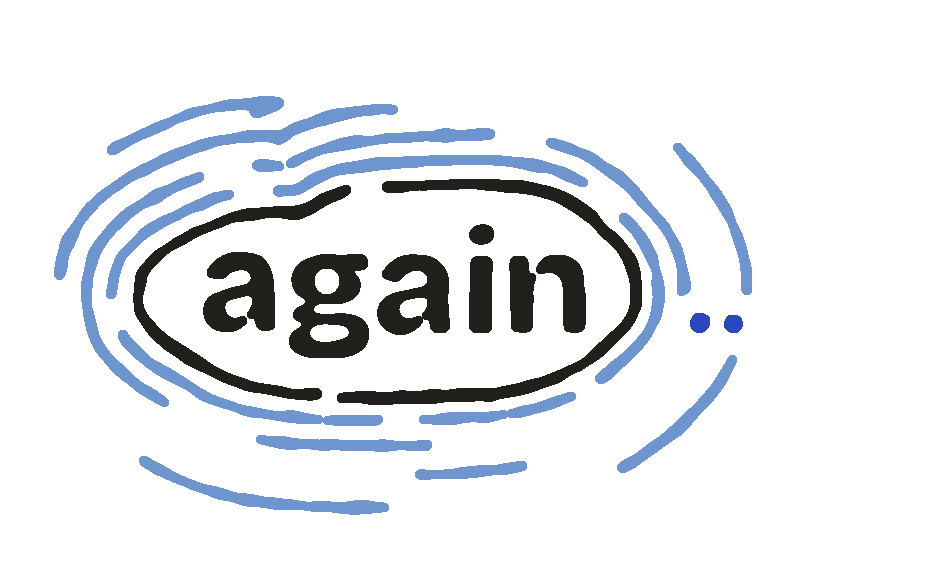
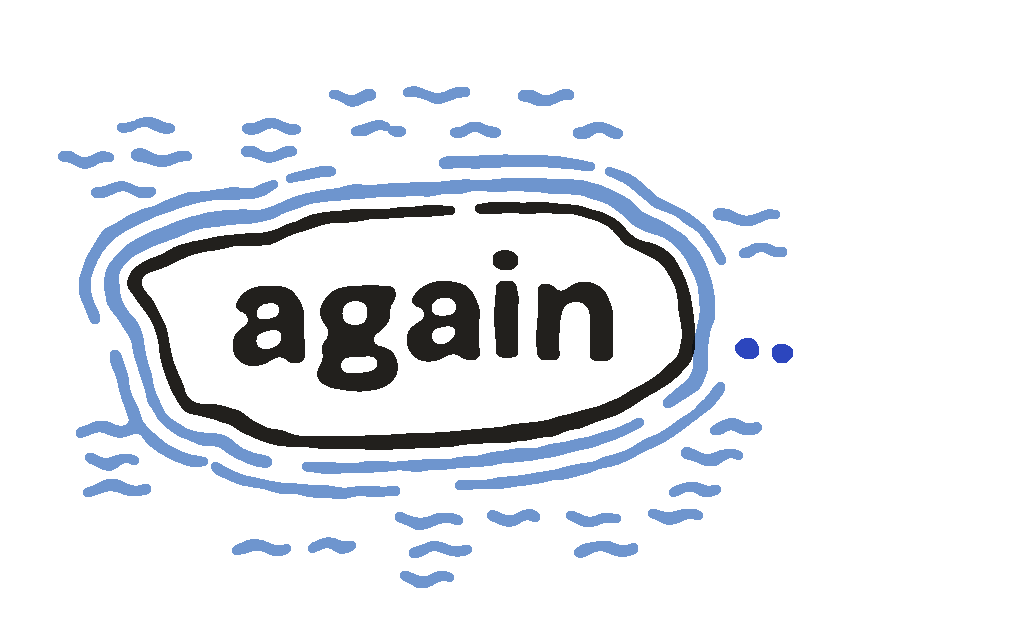
Fronts d: 02 the lake reworked after its critic (a real coast, close echoes, the open water drawn like the back's lake, the dots as islets); 01 the key's scale bar and foot finished

Changed region(s): [[0.0617, 0.1235, 0.8021, 0.9262], [0.4936, 0.1235, 0.5862, 0.1852]]

diff --git a/pipeline/art/fronts/d/02-the-lake/gen.py b/pipeline/art/fronts/d/02-the-lake/gen.py
@@ -11,9 +11,10 @@ import math, os, sys
 sys.path.insert(0, os.path.join(os.path.dirname(os.path.abspath(__file__)), '..', 'lib'))
 import front as F
 
-WMM, HMM = 100, 62
+WMM, HMM = 108, 68
 F.setup(WMM, HMM)
 import hand
+import numpy as np
 from hand import Art, offset_path, resample
 from PIL import Image, ImageDraw, ImageChops
 
@@ -21,85 +22,138 @@ art = Art(seed=402, layers=('blue', 'accent', 'key'))
 rng = art.rng
 EM = 15.5
 
-# the word, set and worked by hand, centred a little left of the canvas so the islets have water to the right
+# the word, set and worked by hand
 m, base_px = F.word_mask('again', EM, rng, wght=760)
-ww, wh = m.width / hand.R, m.height / hand.R
+ww = m.width / hand.R
 bb = m.getbbox()
 top_mm, bot_mm = bb[1] / hand.R, bb[3] / hand.R
-CX, CY = 42.0, 31.0                      # the island's centre
-x0 = CX - ww / 2
-base_mm = CY + (base_px / hand.R - (top_mm + bot_mm) / 2)
+WX, WY = 45.0, 34.0                      # the word's centre
+x0 = WX - ww / 2
+base_mm = WY + (base_px / hand.R - (top_mm + bot_mm) / 2)
 F.paste(art.L['key'], m, x0, base_mm, 'lb', base_px)
 
-# the island: a soft rounded shape hugging the word, its shore wobbling in a few slow waves, one shallow bay
-A, B = ww / 2 + 4.6, (bot_mm - top_mm) / 2 + 4.0
-harm = [(k, rng.uniform(0.5, 1.0) / k ** 0.5, rng.uniform(0, math.tau)) for k in (2, 3, 4, 6)]
+# the island: more land to the west than the word needs, a cove on the north shore, a smaller one to the south-west,
+# a broad headland east toward the islets; the whole thing turned a few degrees
+CX, CY = WX - 0.8, WY + 0.4
+A, B = ww / 2 + 7.0, (bot_mm - top_mm) / 2 + 4.4
+TILT = math.radians(-3.5)
+harm = [(k, rng.uniform(0.35, 0.7) / k ** 0.45, rng.uniform(0, math.tau)) for k in (2, 3, 5, 7)]
 
 
-def shore(t, grow=0.0):
+def g(t, c, w):
+    d = (t - c + math.pi) % math.tau - math.pi
+    return math.exp(-(d / w) ** 2)
+
+
+def shore(t):
     c, s = math.cos(t), math.sin(t)
-    n = 2.5                                   # superellipse: a little flatter than an ellipse
+    n = 3.0
     x = A * math.copysign(abs(c) ** (2 / n), c)
     y = B * math.copysign(abs(s) ** (2 / n), s)
     w = sum(a * math.sin(k * t + p) for k, a, p in harm)
-    bay = -2.2 * math.exp(-((t - 4.3) / 0.2) ** 2)   # a bay on the north shore
-    r = 1 + (w + bay) / max(A, B) * 1.6
-    return CX + x * r, CY + y * r
+    feat = (-2.0 * g(t, 4.25, 0.2)       # the north cove
+            - 1.4 * g(t, 2.35, 0.16)     # the south-west cove
+            + 1.6 * g(t, 3.5, 0.2)       # a headland to the west
+            + 1.5 * g(t, 0.3, 0.32)      # a broad headland to the east, toward the islets
+            - 0.9 * g(t, 5.7, 0.2))      # a shallow bight on the north-east
+    r = 1 + (w + feat) / max(A, B) * 1.5
+    px_, py_ = x * r, y * r
+    return CX + px_ * math.cos(TILT) - py_ * math.sin(TILT), CY + px_ * math.sin(TILT) + py_ * math.cos(TILT)
 
 
-N = 220
+N = 400
 pts = [shore(i / N * math.tau) for i in range(N)]
-pts = resample(pts + [pts[0]], 260)[:-1]
-# the shore: drawn in two pulls of the pen that don't quite meet, the way a hand draws a coast
+pts = resample(pts + [pts[0]], 320)[:-1]
+# the shore: two pulls of the pen, one heavier than the other, overlapping a little where they meet
 start = rng.randrange(len(pts))
 ring = pts[start:] + pts[:start]
-cut1 = int(len(ring) * rng.uniform(0.52, 0.6))
-art.line(ring[2:cut1:3], 1.2, layer='key', wob=0.06, trem=0.12, a0=0.8, a1=2.2)
-art.line(ring[cut1 + 3:-4:3], 1.2, layer='key', wob=0.06, trem=0.12, a0=0.8, a1=2.2)
+cut1 = int(len(ring) * rng.uniform(0.5, 0.58))
+art.line(ring[0:cut1:3], 1.45, layer='key', wob=0.05, trem=0.1, a0=0.6, a1=2.6)
+art.line(ring[cut1 - 4::3] + ring[:2], 1.15, layer='key', wob=0.05, trem=0.1, a0=1.8, a1=0.8)
 
 
 def normal_out(path):
-    # offset_path's normals follow the drawing direction; flip so they point away from the centre
     p2 = offset_path(path, 1.0)
     out = sum(math.hypot(q[0] - CX, q[1] - CY) - math.hypot(p[0] - CX, p[1] - CY) for p, q in zip(path, p2))
     return 1.0 if out > 0 else -1.0
 
 
 SGN = normal_out(pts)
+SH = np.array(pts)
 
-# the islets: the two dots, out in the water at the word's baseline
-r_dot = 0.078 * EM
-islets = [(CX + A + 6.8, base_mm - r_dot), (CX + A + 6.8 + 0.23 * EM, base_mm - r_dot + 0.15)]
+
+ISLAND = Image.new('L', (int(WMM * 4), int(HMM * 4)), 0)
+ImageDraw.Draw(ISLAND).polygon([(x * 4, y * 4) for x, y in pts], fill=255)
+ISL_A = np.asarray(ISLAND)
+
+
+def on_land(x, y):
+    xi, yi = int(x * 4), int(y * 4)
+    return 0 <= xi < ISL_A.shape[1] and 0 <= yi < ISL_A.shape[0] and ISL_A[yi, xi] > 0
+
+
+def dist_shore(x, y):
+    return float(np.sqrt(((SH[:, 0] - x) ** 2 + (SH[:, 1] - y) ** 2).min()))
+
+
+# the islets: the two dots, out past the east headland, near the word's baseline
+r_dot = 0.088 * EM
+tip = max(pts, key=lambda p: p[0] + 0.4 * p[1])
+islets = [(tip[0] + 6.4, tip[1] - 0.6), (tip[0] + 6.4 + 0.245 * EM, tip[1] - 0.2)]
 for ix, iy in islets:
     art.dot(ix, iy, r_dot * rng.uniform(0.97, 1.04), layer='accent')
+ISL_CLEAR = r_dot + 2.3
 
-# the echo lines: each further out, spacing widening, each broken into a few runs, more broken further out
-offs = [2.5, 5.2, 8.3, 11.8]
-for li, d in enumerate(offs):
-    path = offset_path(pts, SGN * d)
-    path = [(x + rng.uniform(-0.05, 0.05), y) for x, y in path]
+
+def bend(path):
+    """water parts round the islets: points near one are pushed out to a clear radius, so lines bow round them"""
+    out = []
+    for x, y in path:
+        for ix, iy in islets:
+            d = math.hypot(x - ix, y - iy)
+            if d < ISL_CLEAR + 1.6:
+                push = ISL_CLEAR + 1.6 * (d / (ISL_CLEAR + 1.6))
+                if d > 1e-6:
+                    x, y = ix + (x - ix) / d * max(d, push), iy + (y - iy) / d * max(d, push)
+        out.append((x, y))
+    return out
+
+
+# the echo lines: two close to the shore, long runs, the first nearly whole
+for li, (d, w) in enumerate(((2.5, 1.3), (5.1, 1.15))):
+    path = bend(offset_path(pts, SGN * d))
     n = len(path)
     i = rng.randrange(n)
     done = 0
-    gap_p = 0.1 + 0.25 * li
-    while done < n:
-        L = int(rng.uniform(26, 70) * (1.0 - 0.1 * li))
-        seg = [path[(i + k) % n] for k in range(min(L, n - done))]
-        if len(seg) > 6 and rng.random() > gap_p * 0.4:
-            art.line(seg[::3] + [seg[-1]], 1.1, layer='blue', wob=0.05, trem=0.06, a0=1.0, a1=1.6)
-        step = L + int(rng.uniform(4, 10) * (1 + li * 1.1))
+    while done < n - 10:
+        L = int(rng.uniform(60, 140) if li == 0 else rng.uniform(30, 80))
+        L = min(L, n - done)
+        seg = [path[(i + k) % n] for k in range(L)]
+        if len(seg) >= 20:
+            art.line(seg[::3] + [seg[-1]], w * rng.uniform(0.95, 1.1), layer='blue', wob=0.05, trem=0.07,
+                     a0=1.2, a1=2.0)
+        step = L + int(rng.uniform(5, 9) * (1 + li))
         i, done = (i + step) % n, done + step
 
-# the islets: the water lines part round them
-mx = (islets[0][0] + islets[1][0]) / 2
-my = (islets[0][1] + islets[1][1]) / 2
-half = (islets[1][0] - islets[0][0]) / 2
-clear = Image.new('L', art.L['blue'].size, 0)
-cd = ImageDraw.Draw(clear)
-rx, ry = half + r_dot + 2.4, r_dot + 2.3
-cd.ellipse(((mx - rx) * hand.R, (my - ry) * hand.R, (mx + rx) * hand.R, (my + ry) * hand.R), fill=255)
-art.L['blue'] = ImageChops.subtract(art.L['blue'], clear)
-art.D['blue'] = ImageDraw.Draw(art.L['blue'])
+# the open water: rows of short wave strokes, the way the back draws its lake, thinning out away from the island
+rows = np.arange(7.0, HMM - 6.0, 3.2)
+for ry in rows:
+    x = 6.5 + rng.uniform(0, 4.0)
+    while x < WMM - 9.0:
+        L = rng.uniform(4.4, 6.6)
+        cx, cy = x + L / 2, ry + rng.uniform(-0.35, 0.35)
+        d = dist_shore(cx, cy)
+        near_isl = min(math.hypot(cx - ix, cy - iy) for ix, iy in islets)
+        ends_wet = not on_land(x, cy) and not on_land(x + L, cy) and not on_land(cx, cy)
+        keep = (ends_wet and d > 8.2 and near_isl > ISL_CLEAR + 2.4
+                and rng.random() < max(0.0, 0.85 - (d - 8.2) / 8.0))
+        if keep:
+            n = 6
+            wl = [(x + L * t / n, cy + 0.42 * math.sin(t / n * math.tau * 1.25 + ry)) for t in range(n + 1)]
+            art.line(wl, 1.1, layer='blue', wob=0.05, trem=0.04, a0=0.9, a1=1.5)
+            x += L + rng.uniform(2.2, 3.6)
+        else:
+            x += rng.uniform(2.0, 3.5)
 
 order = ('blue', 'accent', 'key')
 inks = art.finish(order=order, shifts={'blue': (-0.2, 0.15), 'accent': (0.15, 0.2)}, trim=False)

diff --git a/pipeline/art/fronts/d/01-the-key/gen.py b/pipeline/art/fronts/d/01-the-key/gen.py
@@ -12,7 +12,7 @@ import math, os, sys
 sys.path.insert(0, os.path.join(os.path.dirname(os.path.abspath(__file__)), '..', 'lib'))
 import front as F
 
-WMM, HMM = 104, 170
+WMM, HMM = 104, 162
 F.setup(WMM, HMM)
 import hand
 from hand import Art, hatch_poly
@@ -111,9 +111,9 @@ for ry in (R1, R2):
     art.line([(X0 - 1.5, ry + 0.25), (X0 + SW * 0.5, ry), (BUF, ry - 0.1)], 1.1, layer='key', wob=0.04, trem=0.04,
              a0=3.0, a1=0.3)
 xx = X0 + 0.6
-while xx < X0 + 6.5:                     # sleepers, only where the train isn't
+while xx < X0 + 5.0:                     # sleepers, only where the train isn't
     art.line([(xx, R1 - 1.5), (xx + 0.1, R2 + 1.5)], 1.1, layer='key', wob=0.02, trem=0.0, a0=0.2, a1=0.2)
-    xx += rng.uniform(2.9, 3.3)
+    xx += rng.uniform(3.6, 4.0)
 art.line([(BUF + 0.4, y + 0.9), (BUF + 0.7, y + 9.3)], 1.8, layer='key', wob=0.02, trem=0.0, a0=0.3, a1=0.3)
 # the train from above: three solid cars nose to tail, the front one rounded, a hair short of the buffer
 tx0, tx1 = X0 + 7.2, BUF - 1.3
@@ -184,15 +184,15 @@ yb = yf + 3.2
 bx0 = X0 + 15.5
 bx1 = bx0 + 100 * F.MM_PER_M
 seg = (bx1 - bx0) / 4
-art.line([(bx0, yb - 0.75), (bx1, yb - 0.6)], 1.1, layer='key', wob=0.03, trem=0.03, a0=0.3, a1=0.3)
-art.line([(bx0, yb + 0.75), (bx1, yb + 0.85)], 1.1, layer='key', wob=0.03, trem=0.03, a0=0.3, a1=0.3)
+art.line([(bx0, yb - 1.45), (bx1, yb - 1.35)], 1.1, layer='key', wob=0.03, trem=0.03, a0=0.3, a1=0.3)
+art.line([(bx0, yb + 1.45), (bx1, yb + 1.55)], 1.1, layer='key', wob=0.03, trem=0.03, a0=0.3, a1=0.3)
 for k in (0, 2):
     xx = bx0 + seg * k
-    art.fill([(xx, yb - 1.25), (xx + seg, yb - 1.2), (xx + seg, yb + 1.35), (xx, yb + 1.3)], 'key')
+    art.fill([(xx, yb - 1.7), (xx + seg, yb - 1.65), (xx + seg, yb + 1.8), (xx, yb + 1.75)], 'key')
 for k in range(5):
     xx = bx0 + seg * k
-    hgt = 2.6 if k in (0, 4) else 1.7
-    art.line([(xx, yb - hgt), (xx + 0.1, yb + 1.3)], 1.1, layer='key', wob=0.02, trem=0.0, a0=0.3, a1=0.3)
+    hgt = 3.4 if k in (0, 4) else 1.7
+    art.line([(xx, yb - hgt), (xx + 0.1, yb + 1.7)], 1.1, layer='key', wob=0.02, trem=0.0, a0=0.3, a1=0.3)
 
 order = ('green', 'accent', 'key')
 inks = art.finish(order=order, shifts={'green': (0.3, -0.25), 'accent': (0.15, 0.25)}, trim=False)

diff --git a/pipeline/art/fronts/d/02-the-lake/notes.md b/pipeline/art/fronts/d/02-the-lake/notes.md
@@ -6,6 +6,6 @@
 
 **With the back.** The back's line, lake blue and sound blue; the broken rings rhyme with its sound.
 
-**Process.** Three draft rounds and one critic pass. **The rework is not done yet** (the usage limit cut it off). The critic's fixes still to make: a lumpier, tilted coast with a cove, a headland and a spit running out to the dots; water lines varied in weight and drifting into short horizontal strokes further out; the water lines bending round the islets so the dots read as islands, not stray punctuation; no strokes under ~6 mm.
+**Process.** Three draft rounds, one critic pass, then the rework over four more rounds: the shore made a coast (tilted, a cove on the north shore and another to the south-west, headlands west and east; a spit was tried and cut because it turned the island into a speech bubble, then a fish); two close echo lines drawn in long runs of different weights; beyond them the open water in rows of short wave strokes, the way the back draws its lake, thinning out away from the island and never landing on it; the two dots out past the east headland as islets with clear water round them; no stroke under about 1 cm; the wordmark's ink traps closed.
 
-**Weak spots.** As it stands the shore is too even an oval, so the piece leans toward a badge or a fingerprint; the dots sit apart from the island.
+**Weak spots.** The two echo lines still follow the shore closely enough that, at a glance, the island can read as a badge before it reads as land. The water lines don't bend visibly round the islets (they part well before them). The wordmark is the lineup's face worked by hand, not lettered from scratch.

diff --git a/pipeline/art/fronts/d/01-the-key/notes.md b/pipeline/art/fronts/d/01-the-key/notes.md
@@ -6,6 +6,6 @@
 
 **With the back.** Same three inks (line, grass green, sound blue) and the back's note hand. Every swatch is the back's mark for a thing, but the key itself is a new object, not a piece of the map's picture.
 
-**Process.** Three draft rounds, one critic pass, then a rework (frame + cartouche title, seven entries, solid train, worn patches in the grass, clumped people, three inks instead of four, ink traps closed in the wordmark).
+**Process.** Three draft rounds, one critic pass, then a rework (frame + cartouche title, seven entries, solid train, worn patches in the grass, clumped people, three inks instead of four, ink traps closed in the wordmark), then passes on the train, the foot and the scale bar: eight render-look-fix rounds in all.
 
-**Weak spots.** The scale bar's alternate open segments close up and it prints as one solid bar. The sleepers left of the train read a little like a "#". The wordmark is still the lineup face worked by hand, not lettered from scratch. Tall for a left chest (about 16 cm).
+**Weak spots.** The two sleepers left of the train still read a little like a "#". The wordmark is still the lineup face worked by hand, not lettered from scratch. Tall for a left chest (10.4 x 15.4 cm). The scale bar was reworked last so its open segments stay open at print size.

diff --git a/pipeline/art/fronts/d/index.md b/pipeline/art/fronts/d/index.md
@@ -2,5 +2,5 @@
 
 Two fronts (the owner cut the round from eight to two). See BRAINSTORM.md for the 17 ideas and why these two.
 
-1. [01 the key](01-the-key/): the map's legend, again.. breaking its frame; seven entries from the halls to the lake, the back's north and scale. Left chest, 10.4 cm.
-2. [02 the lake](02-the-lake/): again.. as an island, the lake's echo lines round it, the dots as islets. Left chest, 10 cm. Rework after the critic still to do.
+1. [01 the key](01-the-key/): the map's legend, again.. breaking its frame; seven entries from the halls to the lake, the back's north and scale. Left chest, 10.4 cm wide, 15.4 cm tall.
+2. [02 the lake](02-the-lake/): again.. as an island, the lake's echo lines round it, the dots as islets. Left chest, 10.8 cm.
